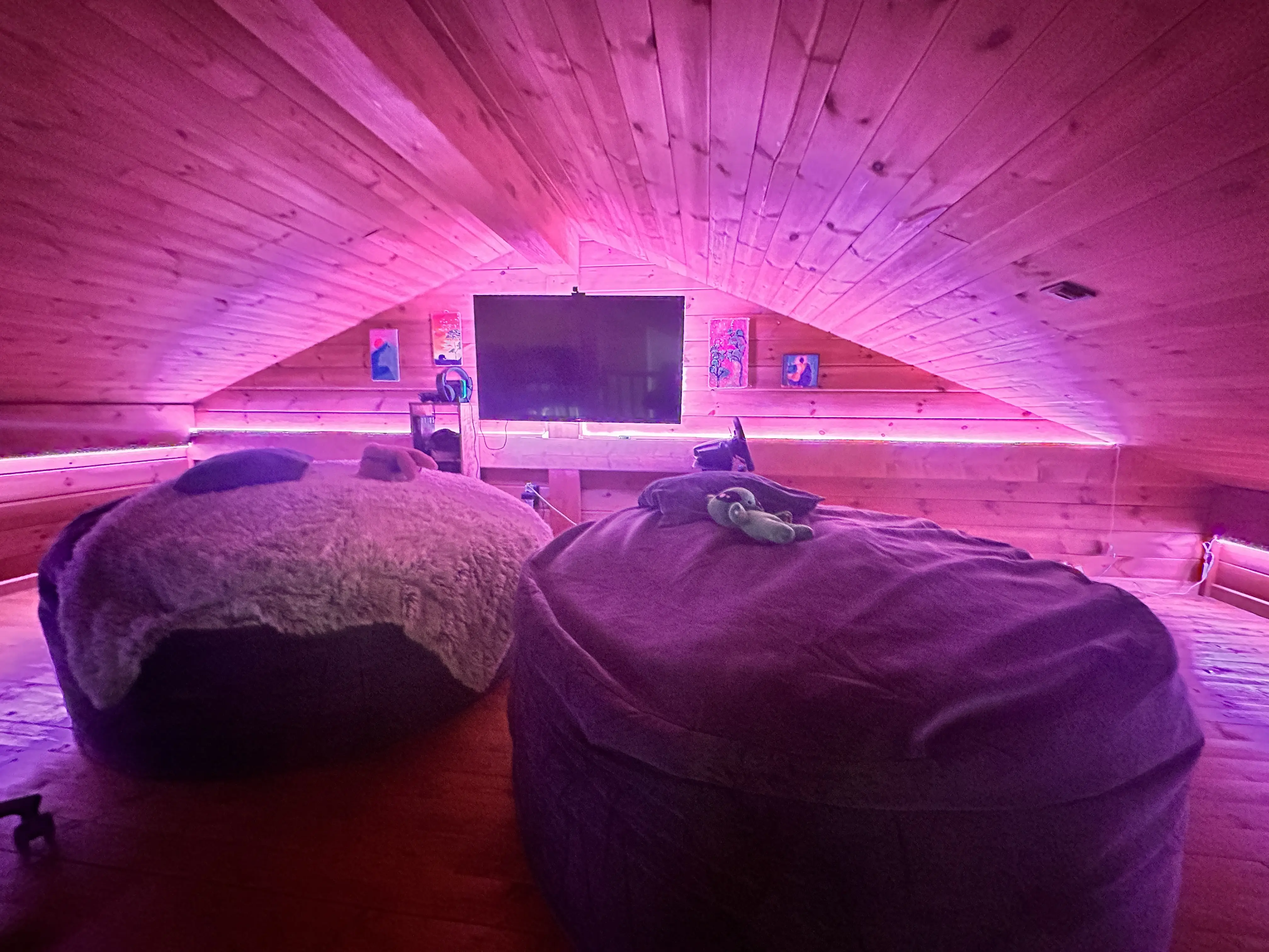
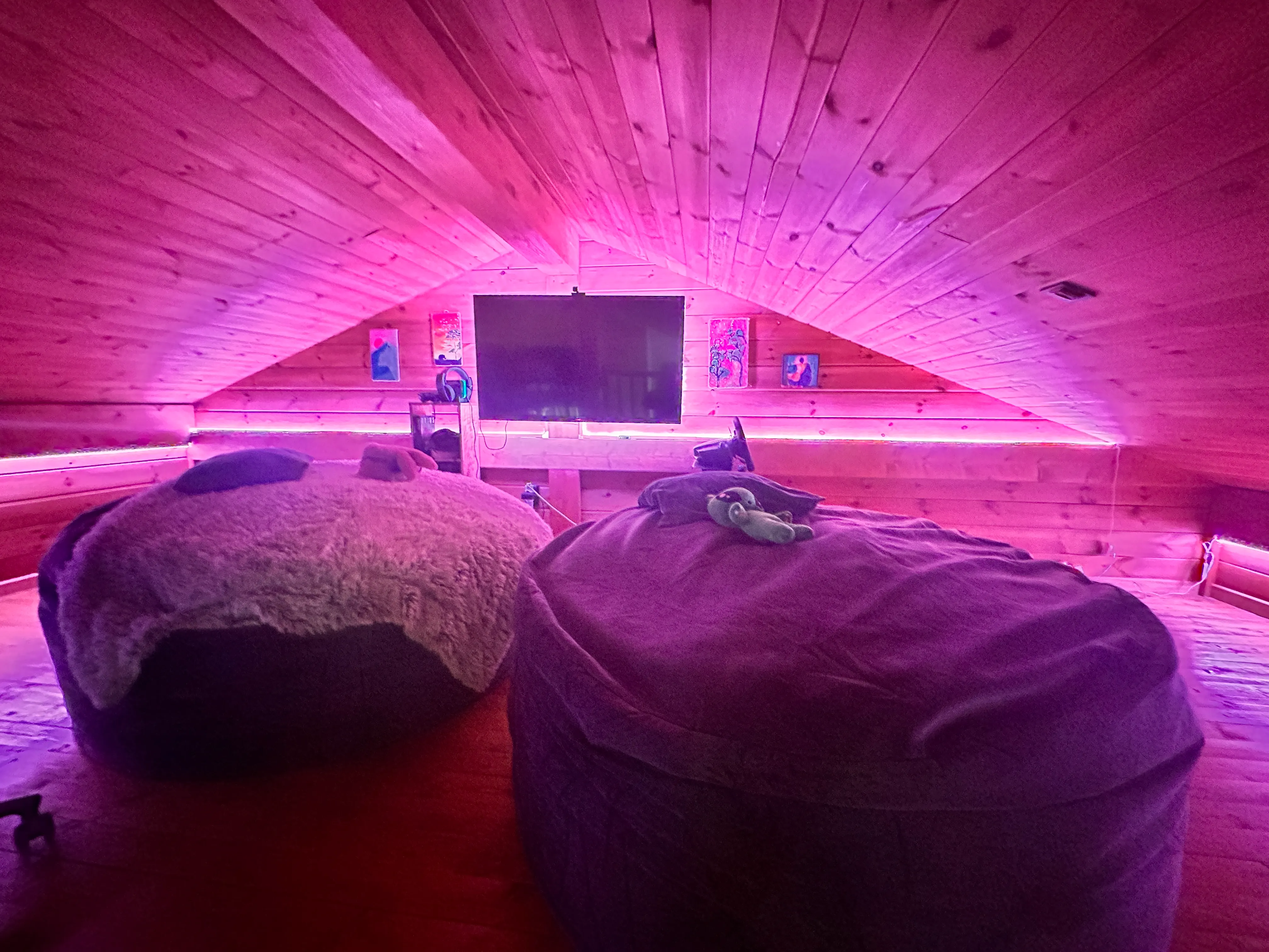
Add webp images

diff --git a/index.html b/index.html
@@ -85,80 +85,80 @@
 
           <div class="col-lg-3 col-md-4">
             <div class="gallery-item">
-              <a href="assets/img/house/new/burning_sky.JPG" class="gallery-lightbox" data-gall="gallery-item">
-                <img src="assets/img/house/new/burning_sky.JPG" alt="" class="img-fluid">
+              <a href="assets/img/house/new/burning_sky.webp" class="gallery-lightbox" data-gall="gallery-item">
+                <img src="assets/img/house/new/burning_sky.webp" alt="" class="img-fluid">
               </a>
             </div>
           </div>
 
           <div class="col-lg-3 col-md-4">
             <div class="gallery-item">
-              <a href="assets/img/house/new/forest.jpg" class="gallery-lightbox" data-gall="gallery-item">
-                <img src="assets/img/house/new/forest.jpg" alt="" class="img-fluid">
+              <a href="assets/img/house/new/forest.webp" class="gallery-lightbox" data-gall="gallery-item">
+                <img src="assets/img/house/new/forest.webp" alt="" class="img-fluid">
               </a>
             </div>
           </div>
 
           <div class="col-lg-3 col-md-4">
             <div class="gallery-item">
-              <a href="assets/img/house/new/morning_forest.JPG" class="gallery-lightbox" data-gall="gallery-item">
-                <img src="assets/img/house/new/morning_forest.JPG" alt="" class="img-fluid">
+              <a href="assets/img/house/new/morning_forest.webp" class="gallery-lightbox" data-gall="gallery-item">
+                <img src="assets/img/house/new/morning_forest.webp" alt="" class="img-fluid">
               </a>
             </div>
           </div>
 
           <div class="col-lg-3 col-md-4">
             <div class="gallery-item">
-              <a href="assets/img/house/new/snow_access.JPG" class="gallery-lightbox" data-gall="gallery-item">
-                <img src="assets/img/house/new/snow_access.JPG" alt="" class="img-fluid">
+              <a href="assets/img/house/new/snow_access.webp" class="gallery-lightbox" data-gall="gallery-item">
+                <img src="assets/img/house/new/snow_access.webp" alt="" class="img-fluid">
               </a>
             </div>
           </div>
 
           <div class="col-lg-3 col-md-4">
             <div class="gallery-item">
-              <a href="assets/img/house/new/snow_house.JPG" class="gallery-lightbox" data-gall="gallery-item">
-                <img src="assets/img/house/new/snow_house.JPG" alt="" class="img-fluid">
+              <a href="assets/img/house/new/snow_house.webp" class="gallery-lightbox" data-gall="gallery-item">
+                <img src="assets/img/house/new/snow_house.webp" alt="" class="img-fluid">
               </a>
             </div>
           </div>
 
           <div class="col-lg-3 col-md-4">
             <div class="gallery-item">
-              <a href="assets/img/house/new/snow_night.JPG" class="gallery-lightbox" data-gall="gallery-item">
-                <img src="assets/img/house/new/snow_night.JPG" alt="" class="img-fluid">
+              <a href="assets/img/house/new/snow_night.webp" class="gallery-lightbox" data-gall="gallery-item">
+                <img src="assets/img/house/new/snow_night.webp" alt="" class="img-fluid">
               </a>
             </div>
           </div>
 
           <div class="col-lg-3 col-md-4">
             <div class="gallery-item">
-              <a href="assets/img/house/new/snow_tree.JPG" class="gallery-lightbox" data-gall="gallery-item">
-                <img src="assets/img/house/new/snow_tree.JPG" alt="" class="img-fluid">
+              <a href="assets/img/house/new/snow_tree.webp" class="gallery-lightbox" data-gall="gallery-item">
+                <img src="assets/img/house/new/snow_tree.webp" alt="" class="img-fluid">
               </a>
             </div>
           </div>
 
           <div class="col-lg-3 col-md-4">
             <div class="gallery-item">
-              <a href="assets/img/house/new/snow_window.JPG" class="gallery-lightbox" data-gall="gallery-item">
-                <img src="assets/img/house/new/snow_window.JPG" alt="" class="img-fluid">
+              <a href="assets/img/house/new/snow_window.webp" class="gallery-lightbox" data-gall="gallery-item">
+                <img src="assets/img/house/new/snow_window.webp" alt="" class="img-fluid">
               </a>
             </div>
           </div>
 
           <div class="col-lg-3 col-md-4">
             <div class="gallery-item">
-              <a href="assets/img/house/new/snow_yard.JPG" class="gallery-lightbox" data-gall="gallery-item">
-                <img src="assets/img/house/new/snow_yard.JPG" alt="" class="img-fluid">
+              <a href="assets/img/house/new/snow_yard.webp" class="gallery-lightbox" data-gall="gallery-item">
+                <img src="assets/img/house/new/snow_yard.webp" alt="" class="img-fluid">
               </a>
             </div>
           </div>
 
           <div class="col-lg-3 col-md-4">
             <div class="gallery-item">
-              <a href="assets/img/house/new/valle.JPG" class="gallery-lightbox" data-gall="gallery-item">
-                <img src="assets/img/house/new/valle.JPG" alt="" class="img-fluid">
+              <a href="assets/img/house/new/valle.webp" class="gallery-lightbox" data-gall="gallery-item">
+                <img src="assets/img/house/new/valle.webp" alt="" class="img-fluid">
               </a>
             </div>
           </div>
@@ -182,120 +182,120 @@
 
           <div class="col-lg-3 col-md-4">
             <div class="gallery-item">
-              <a href="assets/img/house/house_overview.JPG" class="gallery-lightbox" data-gall="gallery-item">
-                <img src="assets/img/house/house_overview.JPG" alt="" class="img-fluid">
+              <a href="assets/img/house/house_overview.webp" class="gallery-lightbox" data-gall="gallery-item">
+                <img src="assets/img/house/house_overview.webp" alt="" class="img-fluid">
               </a>
             </div>
           </div>
 
           <div class="col-lg-3 col-md-4">
             <div class="gallery-item">
-              <a href="assets/img/house/movies.JPG" class="gallery-lightbox" data-gall="gallery-item">
-                <img src="assets/img/house/movies.JPG" alt="" class="img-fluid">
+              <a href="assets/img/house/movies.webp" class="gallery-lightbox" data-gall="gallery-item">
+                <img src="assets/img/house/movies.webp" alt="" class="img-fluid">
               </a>
             </div>
           </div>
 
           <div class="col-lg-3 col-md-4">
             <div class="gallery-item">
-              <a href="assets/img/house/desk.JPG" class="gallery-lightbox" data-gall="gallery-item">
-                <img src="assets/img/house/desk.JPG" alt="" class="img-fluid">
+              <a href="assets/img/house/desk.webp" class="gallery-lightbox" data-gall="gallery-item">
+                <img src="assets/img/house/desk.webp" alt="" class="img-fluid">
               </a>
             </div>
           </div>
 
           <div class="col-lg-3 col-md-4">
             <div class="gallery-item">
-              <a href="assets/img/house/bathroom.JPG" class="gallery-lightbox" data-gall="gallery-item">
-                <img src="assets/img/house/bathroom.JPG" alt="" class="img-fluid">
+              <a href="assets/img/house/bathroom.webp" class="gallery-lightbox" data-gall="gallery-item">
+                <img src="assets/img/house/bathroom.webp" alt="" class="img-fluid">
               </a>
             </div>
           </div>
 
           <div class="col-lg-3 col-md-4">
             <div class="gallery-item">
-              <a href="assets/img/house/hall.JPG" class="gallery-lightbox" data-gall="gallery-item">
-                <img src="assets/img/house/hall.JPG" alt="" class="img-fluid">
+              <a href="assets/img/house/hall.webp" class="gallery-lightbox" data-gall="gallery-item">
+                <img src="assets/img/house/hall.webp" alt="" class="img-fluid">
               </a>
             </div>
           </div>
 
           <div class="col-lg-3 col-md-4">
             <div class="gallery-item">
-              <a href="assets/img/house/main_bedroom.JPG" class="gallery-lightbox" data-gall="gallery-item">
-                <img src="assets/img/house/main_bedroom.JPG" alt="" class="img-fluid">
+              <a href="assets/img/house/main_bedroom.webp" class="gallery-lightbox" data-gall="gallery-item">
+                <img src="assets/img/house/main_bedroom.webp" alt="" class="img-fluid">
               </a>
             </div>
           </div>
 
           <div class="col-lg-3 col-md-4">
             <div class="gallery-item">
-              <a href="assets/img/house/living_room_overview.JPG" class="gallery-lightbox" data-gall="gallery-item">
-                <img src="assets/img/house/living_room_overview.JPG" alt="" class="img-fluid">
+              <a href="assets/img/house/living_room_overview.webp" class="gallery-lightbox" data-gall="gallery-item">
+                <img src="assets/img/house/living_room_overview.webp" alt="" class="img-fluid">
               </a>
             </div>
           </div>
 
           <div class="col-lg-3 col-md-4">
             <div class="gallery-item">
-              <a href="assets/img/house/living_room.JPG" class="gallery-lightbox" data-gall="gallery-item">
-                <img src="assets/img/house/living_room.JPG" alt="" class="img-fluid">
+              <a href="assets/img/house/living_room.webp" class="gallery-lightbox" data-gall="gallery-item">
+                <img src="assets/img/house/living_room.webp" alt="" class="img-fluid">
               </a>
             </div>
           </div>
 
           <div class="col-lg-3 col-md-4">
             <div class="gallery-item">
-              <a href="assets/img/house/kitchen_2.JPG" class="gallery-lightbox" data-gall="gallery-item">
-                <img src="assets/img/house/kitchen_2.JPG" alt="" class="img-fluid">
+              <a href="assets/img/house/kitchen_2.webp" class="gallery-lightbox" data-gall="gallery-item">
+                <img src="assets/img/house/kitchen_2.webp" alt="" class="img-fluid">
               </a>
             </div>
           </div>
 
           <div class="col-lg-3 col-md-4">
             <div class="gallery-item">
-              <a href="assets/img/house/main_bedroom_2.JPG" class="gallery-lightbox" data-gall="gallery-item">
-                <img src="assets/img/house/main_bedroom_2.JPG" alt="" class="img-fluid">
+              <a href="assets/img/house/main_bedroom_2.webp" class="gallery-lightbox" data-gall="gallery-item">
+                <img src="assets/img/house/main_bedroom_2.webp" alt="" class="img-fluid">
               </a>
             </div>
           </div>
 
           <div class="col-lg-3 col-md-4">
             <div class="gallery-item">
-              <a href="assets/img/house/window.JPG" class="gallery-lightbox" data-gall="gallery-item">
-                <img src="assets/img/house/window.JPG" alt="" class="img-fluid">
+              <a href="assets/img/house/window.webp" class="gallery-lightbox" data-gall="gallery-item">
+                <img src="assets/img/house/window.webp" alt="" class="img-fluid">
               </a>
             </div>
           </div>
 
           <div class="col-lg-3 col-md-4">
             <div class="gallery-item">
-              <a href="assets/img/house/snow_balcony.JPG" class="gallery-lightbox" data-gall="gallery-item">
-                <img src="assets/img/house/snow_balcony.JPG" alt="" class="img-fluid">
+              <a href="assets/img/house/snow_balcony.webp" class="gallery-lightbox" data-gall="gallery-item">
+                <img src="assets/img/house/snow_balcony.webp" alt="" class="img-fluid">
               </a>
             </div>
           </div>
 
           <div class="col-lg-3 col-md-4">
             <div class="gallery-item">
-              <a href="assets/img/house/snow_bedroom_window.JPG" class="gallery-lightbox" data-gall="gallery-item">
-                <img src="assets/img/house/snow_bedroom_window.JPG" alt="" class="img-fluid">
+              <a href="assets/img/house/snow_bedroom_window.webp" class="gallery-lightbox" data-gall="gallery-item">
+                <img src="assets/img/house/snow_bedroom_window.webp" alt="" class="img-fluid">
               </a>
             </div>
           </div>
 
           <div class="col-lg-3 col-md-4">
             <div class="gallery-item">
-              <a href="assets/img/house/snow_window.JPG" class="gallery-lightbox" data-gall="gallery-item">
-                <img src="assets/img/house/snow_window.JPG" alt="" class="img-fluid">
+              <a href="assets/img/house/snow_window.webp" class="gallery-lightbox" data-gall="gallery-item">
+                <img src="assets/img/house/snow_window.webp" alt="" class="img-fluid">
               </a>
             </div>
           </div>
 
           <div class="col-lg-3 col-md-4">
             <div class="gallery-item">
-              <a href="assets/img/house/kitchen.jpg" class="gallery-lightbox" data-gall="gallery-item">
-                <img src="assets/img/house/kitchen.jpg" alt="" class="img-fluid">
+              <a href="assets/img/house/kitchen.webp" class="gallery-lightbox" data-gall="gallery-item">
+                <img src="assets/img/house/kitchen.webp" alt="" class="img-fluid">
               </a>
             </div>
           </div>
@@ -318,7 +318,7 @@
 
           <div class="col">
             <div class="member" data-aos="zoom-in" data-aos-delay="100">
-              <img src="assets/img/owners/ginvic.jpg" class="img-fluid" alt="">
+              <img src="assets/img/owners/ginvic.webp" class="img-fluid" alt="">
               <div class="member-info">
                 <div class="member-info-content">
                   <h4>Gin & Vic</h4>
@@ -336,7 +336,7 @@
 
           <div class="col">
             <div class="member" data-aos="zoom-in" data-aos-delay="200">
-              <img src="assets/img/owners/greichy.JPG" class="img-fluid" alt="">
+              <img src="assets/img/owners/greichy.webp" class="img-fluid" alt="">
               <div class="member-info">
                 <div class="member-info-content">
                   <h4>Gin & Greis</h4>
